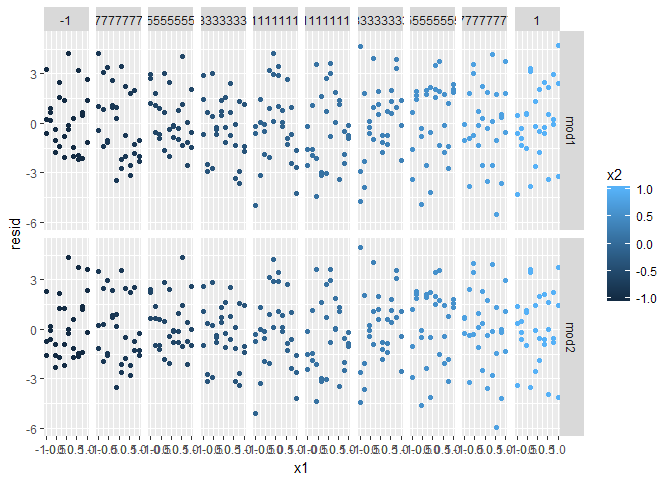
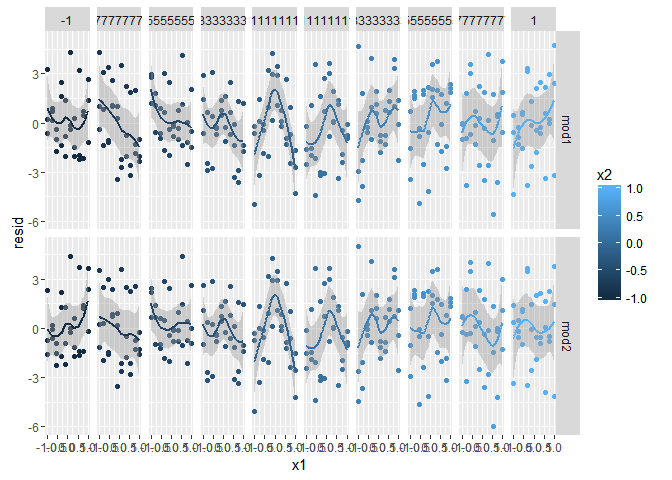
Solutions to model exercise

diff --git a/04_model.md b/04_model.md
@@ -79,7 +79,8 @@ sim4_res <- sim4 %>%
 
 sim4_res %>% 
   ggplot(aes(x = x1, y = resid, color = x2)) + 
-    geom_point() +
+    geom_point() + 
+    geom_smooth() +
     facet_grid(model ~ x2)
 ```
 
@@ -206,3 +207,6 @@ Formula: Gewicht in Karat = Durchmesser^3 * 0.0037
 ## Use your Google sleuthing skills to brainstorm why there were fewer than expected flights on Jan 20, May 26, and Sep 1. (Hint: they all have the same explanation.) How would these days generalise to another year?
 
 * No idea
+
+## Create a new variable that splits the wday variable into terms, but only for Saturdays, i.e. it should have Thurs, Fri, but Sat-summer, Sat-spring, Sat-fall. How does this model compare with the model with every combination of wday and term?
+

diff --git a/r4ds_solutions.md b/r4ds_solutions.md
@@ -87,7 +87,7 @@ setNames
 ##     names(object) <- nm
 ##     object
 ## }
-## <bytecode: 0x000000001681d258>
+## <bytecode: 0x00000000150545a8>
 ## <environment: namespace:stats>
 ```
 
